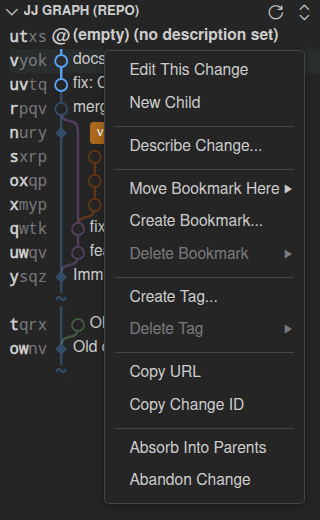
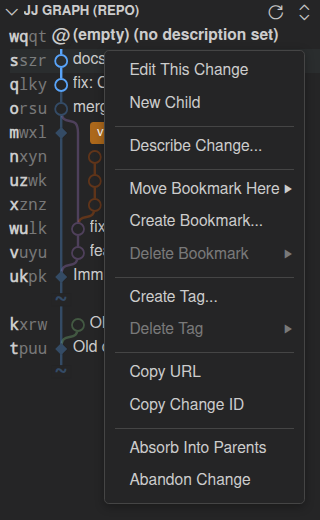
docs: Automate screenshots for light theme and the full graph style

Changed region(s): [[0.0312, 0.0615, 0.1562, 0.5538], [0.0312, 0.6154, 0.1562, 0.7077]]

diff --git a/tests-integration/screenshot/screenshot.test.ts b/tests-integration/screenshot/screenshot.test.ts
@@ -22,6 +22,7 @@ async function initializeSettings(userDataDir: string, zoomLevel: number) {
   addSettings(userDataDir, {
     "window.zoomLevel": zoomLevel,
     "workbench.colorTheme": "Dark+",
+    "jjx.graphStyle": "compact",
   });
 }
 
@@ -93,6 +94,25 @@ test("take screenshot of jj graph for readme", async ({ userDataDir, graphFrame,
   };
 
   await screenshot(workbox, "compact-view.png", clip);
+
+  await addSettings(userDataDir, { "workbench.colorTheme": "Light+" });
+  await workbox.waitForTimeout(1000);
+  await screenshot(workbox, "compact-view-light.png", clip);
+
+  await addSettings(userDataDir, {
+    "workbench.colorTheme": "Dark+",
+    "jjx.graphStyle": "full",
+  });
+  await expect(graphFrame.locator(".compact")).toHaveCount(0);
+  await screenshot(workbox, "full-view.png", {
+    x: clip.x,
+    y: clip.y,
+    width: clip.width,
+    height: 500,
+  });
+
+  await addSettings(userDataDir, { "jjx.graphStyle": "compact" });
+  await expect(graphFrame.locator(".compact").first()).toBeVisible();
 
   const secondCommit = nodes.nth(1);
   await secondCommit.hover();

diff --git a/README.md b/README.md
@@ -12,7 +12,7 @@ Jujutsu X is based on [Jujutsu Kaizen](https://github.com/keanemind/jjk).
 ### 🔗 Graph view
 
 - Compact graph view  
-  ![compact graph](images/compact-view.png)
+  ![compact graph dark theme](images/compact-view.png) ![compact graph light theme](images/compact-view-light.png)
   - Alternative: [Extended graph view](images/full-view.png)
 - High information density
 - Author name omitted if it's your own change
